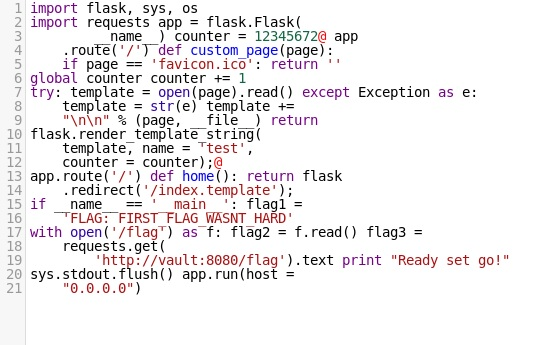
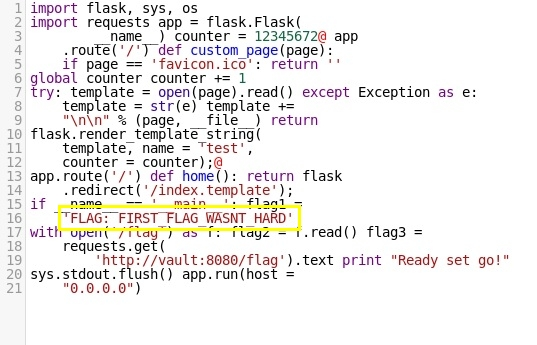
zumbo writeup

Changed region(s): [[0.0894, 0.5797, 0.5661, 0.6957], [0.3575, 0.1159, 0.5065, 0.1739], [0.3277, 0.4928, 0.3873, 0.5217]]

diff --git a/_posts/2017-02-14-BSides-CTF-zumbo1.md b/_posts/2017-02-14-BSides-CTF-zumbo1.md
@@ -1,0 +1,23 @@
+---
+layout: post
+author: Lukhvir Athwal
+category: writeup
+title: "BSidesCTF zumbo1 challenge"
+---
+
+> Welcome to ZUMBOCOM....you can do anything at ZUMBOCOM.<br>
+Three flags await. Can you find them?<br>
+[http://zumbo-8ac445b1.ctf.bsidessf.net](http://zumbo-8ac445b1.ctf.bsidessf.net)<br>
+Stages 2 and 3 - coming soon!
+
+This was a Web challenge and the link led to a page with no links. I inspected the webpage, and saw that it had Server.py which seemed like an odd thing to place there. 
+
+![inspect zumbo1]({{ site.url }}/assets/bsides/Zumbo1Pt2.png)
+
+I changed the directory of the website to http://zumbo-8ac445b1.ctf.bsidessf.net/server.py which revealed the source code for server.py and the flag for part 1. I formatted the code so it looked nicer.
+
+![server.py code]({{ site.url }}/assets/bsides/ServerCode.jpg) 
+
+{% highlight bash%}
+FLAG:FIRST_FLAG_WASNT_HARD
+{%endhighlight%}
